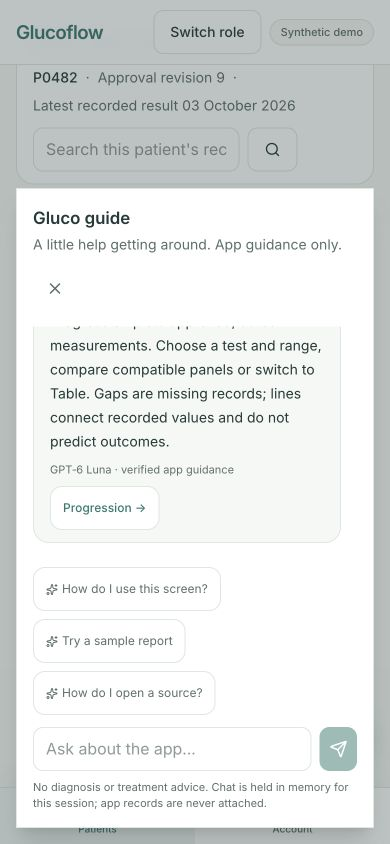
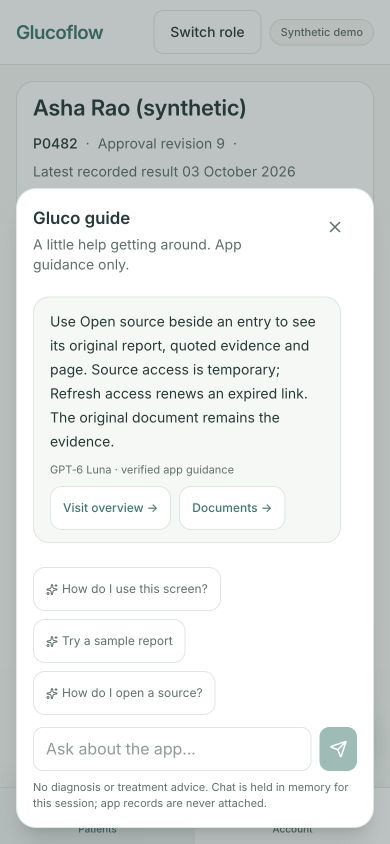
Add Android release link and final live guide evidence

diff --git a/app/reports/workspace-guide-2026-10-04.md b/app/reports/workspace-guide-2026-10-04.md
@@ -29,6 +29,7 @@ A hosted app-help question returned the live GPT-6 Luna label; a synthetic insul
 - API: https://glucoflow-service.lemonpebble-6e1c6c4b.centralindia.azurecontainerapps.io — ready revision `glucoflow-service--0000002`, image `glucoflow-api:20261004-guide`, digest `sha256:c1bf5abc43eab7cefdbbc73b47f758eb41f01da685ca7f48527b0d72d04dcd14`.
 - Worker extraction code is unchanged; deployed `20261004-polish4` remains active. No new database migration was needed.
[1 lines of base64/hex data omitted]
+- Downloadable APK release: https://github.com/wysh3/glucoflow/releases/tag/demo-2026-10-04
 - Public repository: https://github.com/wysh3/glucoflow — main.
 - GitHub CI moved from the inactive nested app/.github location to repository-root .github/workflows, with app working directory and lockfile cache path. README, walkthrough, env example and guide operations updated. Historical evidence and unrelated user decks preserved.
 

diff --git a/README.md b/README.md
@@ -2,7 +2,7 @@
 
 A shared workspace for patients and clinic teams to turn scattered diabetes records into a reviewed, source-backed history. Upload a report, check the extracted draft against the original, approve it, and explore the published timeline.
 
-**[Open the hosted demo](https://glucoflow.vercel.app)** · [Setup guide](app/docs/SETUP.md) · [Demo walkthrough](app/docs/DEMO.md) · [Android APK](deliverables/Glucoflow_Android.apk)
+**[Open the hosted demo](https://glucoflow.vercel.app)** · [Setup guide](app/docs/SETUP.md) · [Demo walkthrough](app/docs/DEMO.md) · [Android APK](https://github.com/wysh3/glucoflow/releases/download/demo-2026-10-04/Glucoflow_Android.apk)
 
 ![Glucoflow clinic workspace](app/reports/evidence/workspace-guide-2026-10-04/doctor-desktop.png)
 
